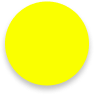
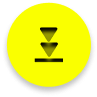
another ui test

Changed region(s): [[0.0426, 0.0, 0.9574, 0.9053], [0.3404, 0.2737, 0.6596, 0.6526]]

diff --git a/index.html b/index.html
@@ -483,10 +483,10 @@ function addScore(d){
             <img id="pause" src="img/btn.png">
             <!-- <img id="reset" src="img/sm_btn.png">
             <img id="pause" src="img/sm_btn.png"> -->
-            <img id="rotate" src="img/big_btn.png">
-            <img id="left" src="img/big_btn.png">
-            <img id="right" src="img/big_btn.png">
-            <img id="down" src="img/big_btn.png">
+            <img id="rotate" src="img/rotate.png">
+            <img id="left" src="img/left.png">
+            <img id="right" src="img/right.png">
+            <img id="down" src="img/down.png">
 
            <!--  <img id="rotate" src="img/btn.png">
             <img id="left" src="img/btn.png">
@@ -502,39 +502,15 @@ function addScore(d){
         <img class="topleft click-through" style="display: none;" id="over-overlay"src="img/over.png">
 
     <script type="text/javascript">
-var xpatch = 10;
-var ypatch = -10;
-// var UI_ELEMENTS = [
-//     {action: 'rotate', x: 56, y: 518 - 12, w: 40 * 1.3, h: 40*1.3},
-//     {action: 'left'  , x: 23 - 5, y: 545, w: 40 * 1.3, h: 40 * 1.3},
-//     {action: 'right' , x: 90 + 5, y: 545, w: 40 * 1.3, h: 40 * 1.3},
-//     {action: 'down'  , x: 56, y: 575 + 8, w: 40 * 1.3, h: 40 * 1.3},
 
-//     {action: 'drop'  , x: 241, y: 520 + 0, w: 94, h: 95},
-    
-//     {action: 'reset' , x: 157 - 1, y: 493 + 1, w: 25 * 1.1, h: 26 * 1.1},
-//     {action: 'pause' , x: 210 - 2, y: 493 + 1, w: 25 * 1.1, h: 26 * 1.1}
-// ];
-// var UI_ELEMENTS = [
-//     {action: 'rotate', x: 56 + 196, y: 518 - 12, w: 40 * 1.3, h: 40*1.3},
-//     {action: 'right' , x: 95 + 196, y: 545, w: 40 * 1.3, h: 40 * 1.3},
-
-//     {action: 'left'  , x: 18, y: 545, w: 40 * 1.3, h: 40 * 1.3},
-//     {action: 'down'  , x: 56, y: 575 + 8, w: 40 * 1.3, h: 40 * 1.3},
-
-//     {action: 'drop'  , x: 241 - 90, y: 520 + 24, w: 94, h: 95},
-    
-//     {action: 'reset' , x: 157 - 1, y: 493 + 1, w: 25 * 1.1, h: 26 * 1.1},
-//     {action: 'pause' , x: 210 - 2, y: 493 + 1, w: 25 * 1.1, h: 26 * 1.1}
-// ];
 var UI_ELEMENTS = [
-    {action: 'rotate', x: 56 + 196, y: 506 + 33, w: 40 * 1.3, h: 40*1.3},
-    {action: 'right' , x: 95 + 196, y: 545 + 33, w: 40 * 1.3, h: 40 * 1.3},
+    {action: 'left'  , x: 219, y: 567, w: 66, h: 66},
+    {action: 'right' , x: 287, y: 567, w: 66, h: 66},
 
-    {action: 'left'  , x: 18, y: 545, w: 40 * 1.3, h: 40 * 1.3},
-    {action: 'down'  , x: 56, y: 575 + 8, w: 40 * 1.3, h: 40 * 1.3},
+    {action: 'rotate', x: 34, y: 493, w: 66, h: 66},
+    {action: 'down'  , x: 34, y: 567, w: 66, h: 66},
 
-    {action: 'drop'  , x: 241 - 103, y: 520 + 24, w: 94, h: 95},
+    {action: 'drop'  , x: 120, y: 538, w: 97, h: 97},
     
     {action: 'reset' , x: 157 - 1, y: 493 + 1, w: 25 * 1.1, h: 26 * 1.1},
     {action: 'pause' , x: 210 - 2, y: 493 + 1, w: 25 * 1.1, h: 26 * 1.1}
